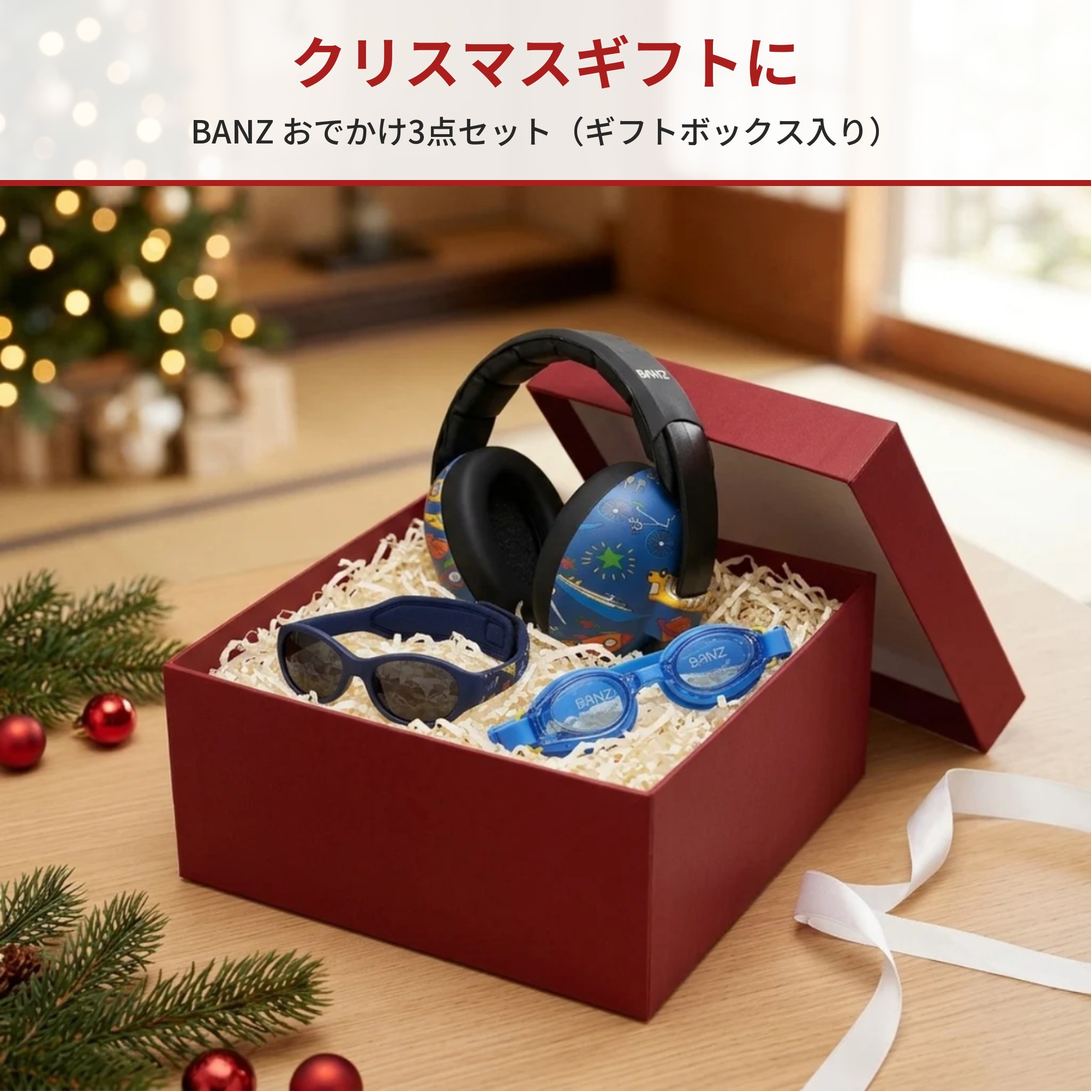
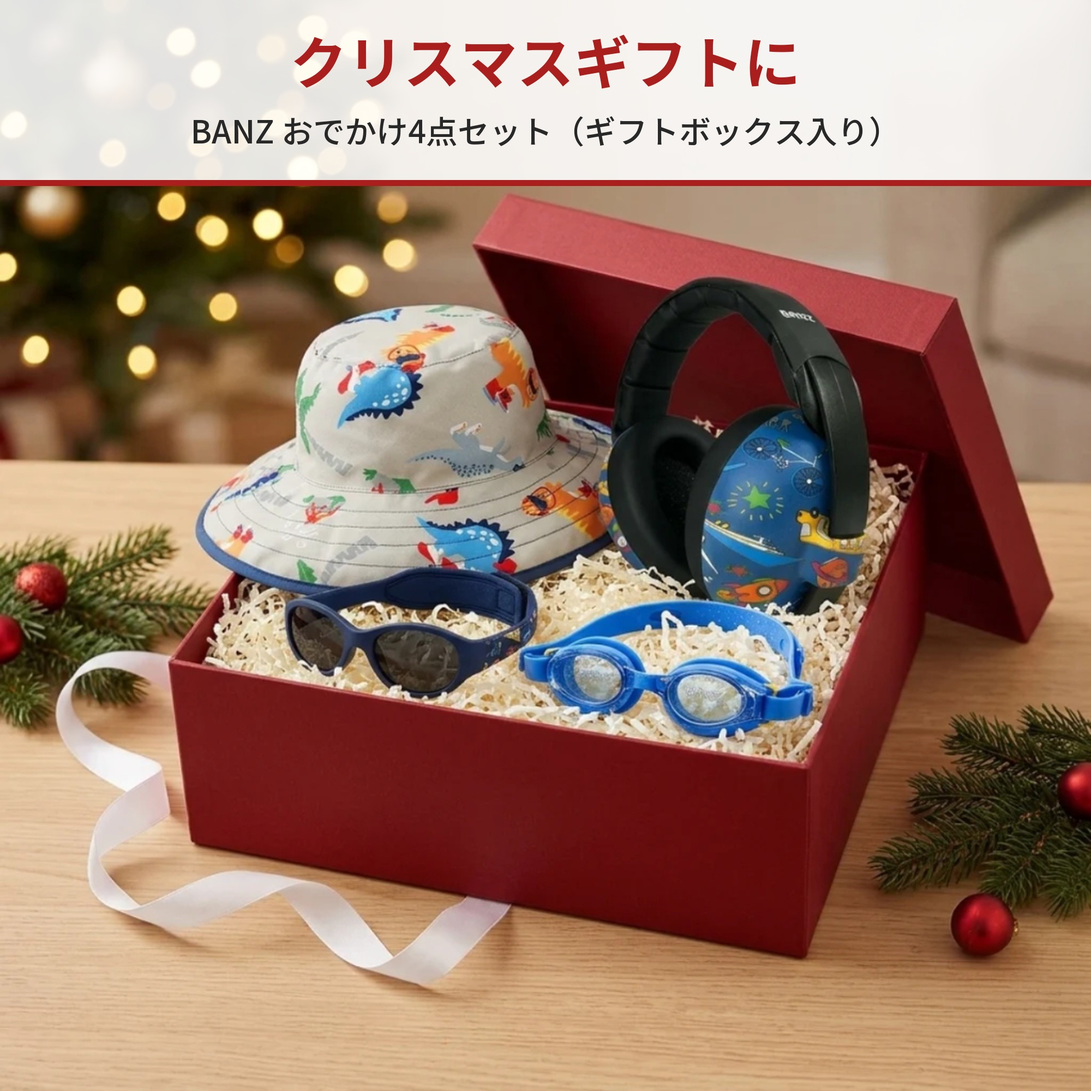
BANZ クリスマスセットにサンハットを追加（4 点セット版 19 図）

diff --git a/docs/amazon-visual/banz-xmas-set/README.md b/docs/amazon-visual/banz-xmas-set/README.md
@@ -7,17 +7,24 @@
 - ベビー用防音イヤーマフ banz-0001（のりもの柄）单卖 ¥4,950，0〜2 歳
 - 偏光キッズサングラス banz-002（ブルー）单卖 ¥2,450，0〜3 歳
 - キッズ スイムゴーグル banz-005（ブルー）单卖 ¥1,680，对象年龄未确认
-- 单卖合计 ¥9,080
+- リバーシブル サンハット banz-sunhat（恐竜パーク）单卖 ¥1,780，S 0〜2 歳 / M 2〜5 歳（用户 11-22 追加）
+- 四件单卖合计 ¥10,860
 
 ## 图片
 - 预览：`preview.jpg`（19 张）；成品在 `tools/amazon-listing/out/xmas-set/output/banz-xmas-blue/`（01_LISTING 9 张 2000×2000、02_APLUS 8 张 1464×600、03_BRAND_STORY 2 张 1464×625）。
 - 做法：参考图 `inputs/banz-xmas-blue/assets/ref.jpg` → Gemini 出 15 张底图（同一对话连续出，每张约 30 秒）→ visual19 导出 → 主图文字由 `text.py` 代码加（visual19 自带的黑色文字框不用）。A05〜A08 是方图裁切。
 - 文字只用商品页已有事实：约 140g、0〜2 歳、偏光・UV400、0〜3 歳、ストラップ付き、くもり止め・UVカット。耳罩降噪数值乐天页写 31dB、Amazon 旧图写 21dB，不一致，未写。
 
+## 四件套版本（11-22 追加帽子后）
+- 重出了含帽子的 8 张底图（L01、L02、L06 帽子单品、L07、L09、A01、A05 帽子横幅、B01），其余沿用；A06/A08/B02 是方图裁切。原三件套底图备份在 `tools/amazon-listing/out/xmas-set/src3/`。
+- Gemini 当天出到 24 张后提示额度用完，B02 外出场景没能重出。
+- L06 改为帽子图，原「外出场景」图不再使用。
+
 ## 已知问题（上架前要改）
 - 图是 AI 按参考图重画的：太阳镜镜框形状偏圆（实物是飞翼形），L01 白底图的太阳镜绑带被画上了花纹（实物是素色）。正式上架的主图应换成实物拍摄或抠图。
 - 礼盒是暂定样式（酒红色天地盖 + 白色缎带 + 拉菲草），盒子买定后图要按实物重做。
-- A07 裁切把商品切掉了，需重出。
+- A06、A08、B02 是裁切图，构图偏紧，额度恢复后重出。
+- 帽子尺码有 S/M 两种，套装要定用哪个（耳罩 0〜2 歳对应 S）。
 - 三件商品的对象年龄不一致（耳罩 0〜2 歳，泳镜一般是 3 歳以上）。
 
 ## 包装盒（1688 搜索「天地盖礼品盒 酒红色 正方形 现货 20cm」，只读了搜索卡片）
